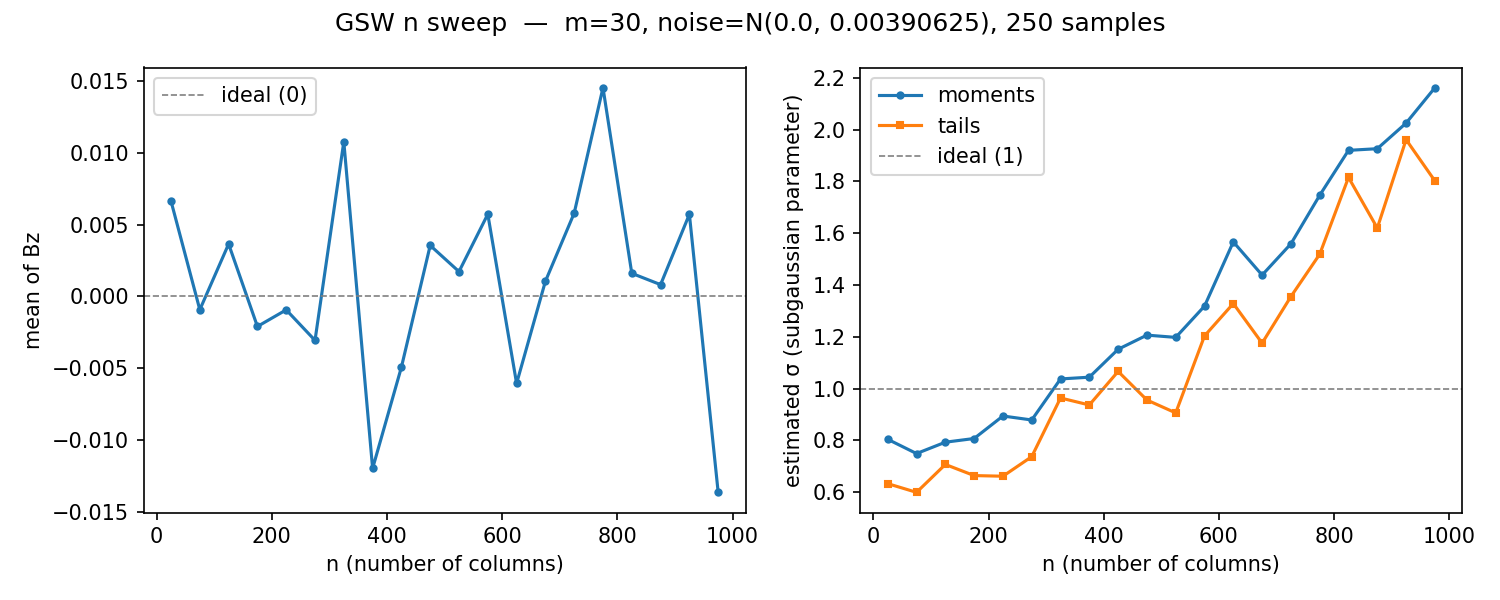
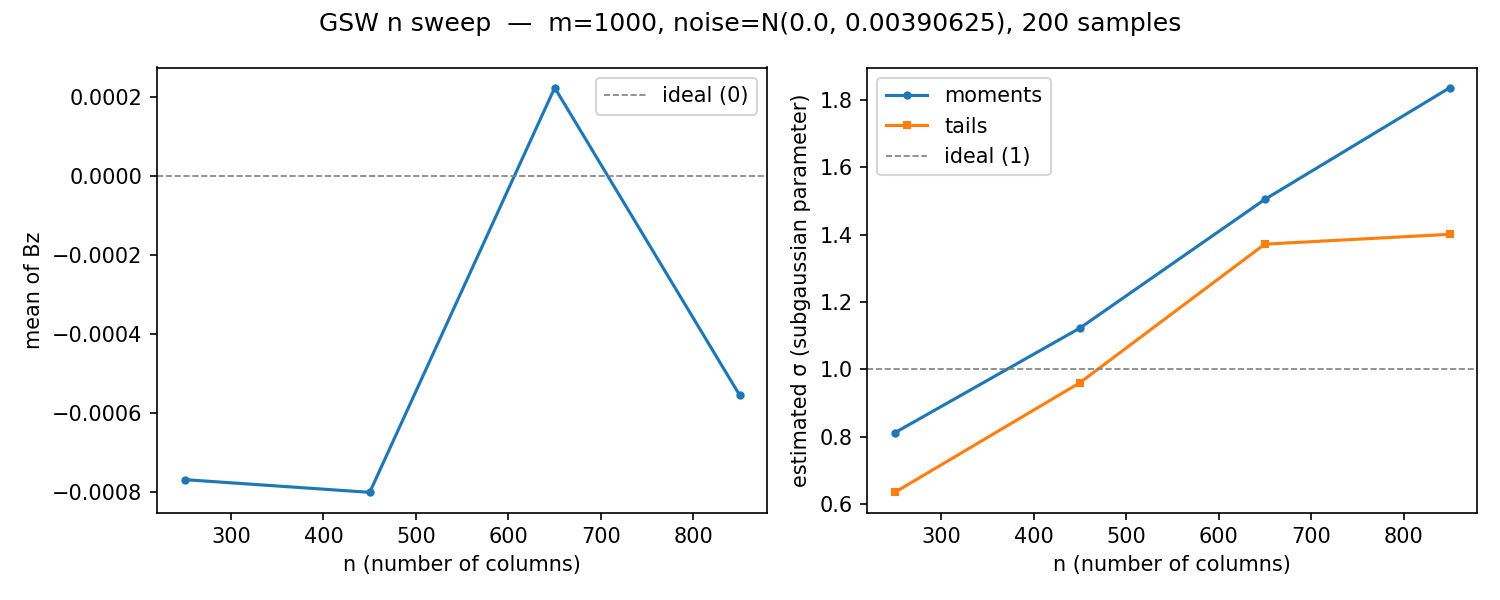
sweeps for m=n, m > n and sweeping n
Okay so in the noise world the linear dependence isn't just an artifact
of this "free discrepancy" from the iterations where cols are linearly
dependent

also include the sweep settings I suppose

diff --git a/n_sweep.py b/n_sweep.py
@@ -223,17 +223,18 @@ def mn_sweep(
 
 
 if __name__ == "__main__":
-    m, n_values, num_samples = 30, range(250, 2001, 250), 250
+    m, n_values, num_samples = 30, range(250, 2001, 250), 200
     # okay for today I want
     # 1) a bit precision sweep in the n >> d regime just to confirm things
     # so maybe let's do up to 1500
-    n_sweep(m, n_values, num_samples, noise_mean=0.0, noise_std=2**(-9))
+    # n_sweep(m, n_values, num_samples, noise_mean=0.0, noise_std=2**(-9))
     # n_sweep(m, n_values, 200, sig_bits=8)
     # then I'm interested in sweeping over m and n with some noise, let's do 1/256
-    N_values = range(250, 2001, 250)
+    N_values = range(200, 1001, 200)
     mn_sweep(N_values, num_samples, noise_mean=0.0, noise_std=2**(-8))
+    m, n_values, num_samples = 1000, range(250, 1001, 200), 200
+    n_sweep(m, n_values, num_samples, noise_mean=0.0, noise_std=2**(-8))
     # n_sweep(m, n_values, num_samples, noise_mean=-2**(-10), noise_std=0.0)
-    # n_sweep(m, n_values, num_samples, noise_mean=0.0, noise_std=2**(-8))
     # n_sweep(m, n_values, num_samples, sig_bits=3)   # fp8 E4M3 mantissa
     # n_sweep(m, n_values, num_samples, sig_bits=2)   # fp8 E5M2 mantissa
     # n_sweep(m, n_values, num_samples, sig_bits=10)  # fp16 mantissa
